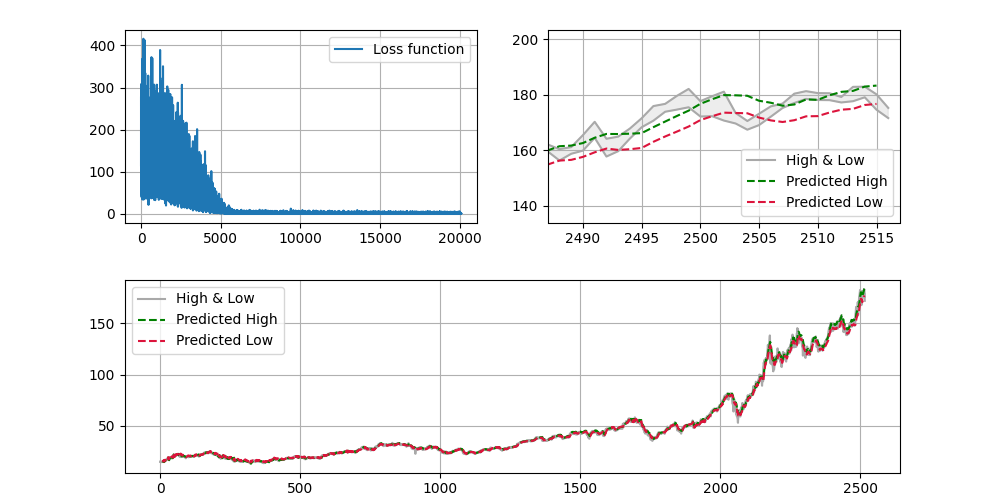
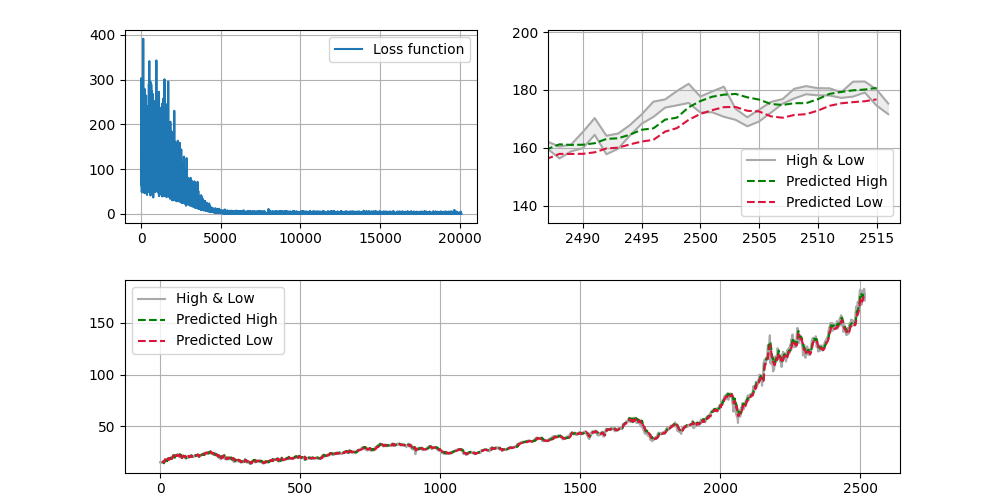
Losspercent

diff --git a/main_LSTM_HL.py b/main_LSTM_HL.py
@@ -14,7 +14,7 @@ features = 5 # Close, Volume, Open, High, Low (Input_size = 5)
 seq_len = 21 # length of window
 batch_size = 64 # Must be a power of 2
 l_rate = 0.0025
-n_epoch = 128 # Must be divisible by 8
+n_epoch = 16 # Must be divisible by 8
 n_hidden = int((2/3)*(features * seq_len)) # 2/3 input neurons
 dropout = 0.2 # Dropout rate
 
@@ -199,6 +199,20 @@ if __name__ == '__main__':
     timer_end = time.perf_counter()
     print_and_log('\nTesting finished! (' + str(round(timer_end - timer_start, 4)) + ' seconds )')
 
+    ### Percentual deviation from target ###
+    losspercent = 0
+    y_pred_plot = dataset_test.scaler.inverse_transform(y_pred_plot.reshape(-1, n_output))
+    plot_data = np.loadtxt(test_file[0], delimiter=',', skiprows=1, usecols=(4,5))[::-1]
+    targets = plot_data[seq_len:]
+    for i, e in enumerate(y_pred_plot):
+        target1 = targets[i, 0]
+        target2 = targets[i, 1]
+        losspercent = losspercent + abs((e[0]-target1)/target1)
+        losspercent = losspercent + abs((e[1]-target1)/target1)
+    losspercent = (losspercent/(len(y_pred_plot)*len(y_pred_plot[0])))*100
+    print_and_log(f"The mean percentual deviation from targets of this model is {losspercent}%")
+
+
     ### Plotting ###
     fig = plt.figure(figsize=(10, 5))
     sub = fig.subfigures(2, 1)
@@ -206,7 +220,6 @@ if __name__ == '__main__':
     bottom = sub[1].subplots(1, 1)
 
     plot_data = np.loadtxt(test_file[0], delimiter=',', skiprows=1, usecols=(4,5))[::-1]
-    y_pred_plot = dataset_test.scaler.inverse_transform(y_pred_plot.reshape(-1, n_output))
 
     # Set up the loss plot
     top_left.plot(Loss, label="Loss function")

diff --git a/main_LSTM_C.py b/main_LSTM_C.py
@@ -199,6 +199,18 @@ if __name__ == '__main__':
     timer_end = time.perf_counter()
     print_and_log('\nTesting finished! (' + str(round(timer_end - timer_start, 4)) + ' seconds )')
 
+    ### Percentual deviation from target ###
+    losspercent = 0
+    y_pred_plot = dataset_test.scaler.inverse_transform(y_pred_plot.reshape(-1, 1))
+    plot_data = np.loadtxt(test_file[0], delimiter=',', skiprows=1, usecols=(1))[::-1]
+    targets = plot_data[seq_len:]
+    for i, e in enumerate(y_pred_plot):
+        target = targets[i]
+        losspercent = losspercent + abs((e-target)/target)
+    losspercent = (losspercent/len(y_pred_plot))*100
+    print_and_log(f"The mean percentual deviation from targets of this model is {losspercent[0]}%")
+
+
     ### Plotting ###
     fig = plt.figure(figsize=(10, 5))
     sub = fig.subfigures(2, 1)
@@ -206,7 +218,6 @@ if __name__ == '__main__':
     bottom = sub[1].subplots(1, 1)
 
     plot_data = np.loadtxt(test_file[0], delimiter=',', skiprows=1, usecols=(1))[::-1]
-    y_pred_plot = dataset_test.scaler.inverse_transform(y_pred_plot.reshape(-1, n_output))
 
     # Set up the loss plot
     top_left.plot(Loss, label="Loss function")
@@ -219,7 +230,7 @@ if __name__ == '__main__':
     top_right.plot(np.arange(len(y_pred_plot)) + seq_len, y_pred_plot, label='Predicted close', linestyle='--', color='green')
 
     top_right.axis(
-        xmin=len(plot_data) - 30, xmax=len(plot_data[:, 0]),
+        xmin=len(plot_data) - 30, xmax=len(plot_data),
         ymin=np.min(y_pred_plot[-30:]) - 20, ymax=np.max(y_pred_plot[-30:]) + 20
         ) # Zoom in on the last 30 days
     top_right.legend()

diff --git a/main_CNN_HL.py b/main_CNN_HL.py
@@ -196,6 +196,19 @@ if __name__ == '__main__':
     timer_end = time.perf_counter()
     print_and_log('\nTesting finished! (' + str(round(timer_end - timer_start, 4)) + ' seconds )')
 
+    ### Percentual deviation from target ###
+    losspercent = 0
+    y_pred_plot = dataset_test.scaler.inverse_transform(y_pred_plot.reshape(-1, n_output))
+    plot_data = np.loadtxt(test_file[0], delimiter=',', skiprows=1, usecols=(4,5))[::-1]
+    targets = plot_data[seq_len:]
+    for i, e in enumerate(y_pred_plot):
+        target1 = targets[i, 0]
+        target2 = targets[i, 1]
+        losspercent = losspercent + abs((e[0]-target1)/target1)
+        losspercent = losspercent + abs((e[1]-target1)/target1)
+    losspercent = (losspercent/(len(y_pred_plot)*len(y_pred_plot[0])))*100
+    print_and_log(f"The mean percentual deviation from targets of this model is {losspercent}%")
+
     ### Plotting ###
     fig = plt.figure(figsize=(10, 5))
     sub = fig.subfigures(2, 1)
@@ -203,8 +216,6 @@ if __name__ == '__main__':
     bottom = sub[1].subplots(1, 1)
 
     plot_data = np.loadtxt(test_file[0], delimiter=',', skiprows=1, usecols=(4,5))[::-1]
-    y_pred_plot = dataset_test.scaler.inverse_transform(y_pred_plot.reshape(-1, n_output))
-
     # Set up the loss plot
     top_left.plot(Loss, label="Loss function")
     top_left.legend()

diff --git a/main_CNN_C.py b/main_CNN_C.py
@@ -196,6 +196,17 @@ if __name__ == '__main__':
     timer_end = time.perf_counter()
     print_and_log('\nTesting finished! (' + str(round(timer_end - timer_start, 4)) + ' seconds )')
 
+    ### Percentual deviation from target ###
+    losspercent = 0
+    y_pred_plot = dataset_test.scaler.inverse_transform(y_pred_plot.reshape(-1, 1))
+    plot_data = np.loadtxt(test_file[0], delimiter=',', skiprows=1, usecols=(1))[::-1]
+    targets = plot_data[seq_len:]
+    for i, e in enumerate(y_pred_plot):
+        target = targets[i]
+        losspercent = losspercent + abs((e-target)/target)
+    losspercent = (losspercent/len(y_pred_plot))*100
+    print_and_log(f"The mean percentual deviation from targets of this model is {losspercent[0]}%")
+
     ### Plotting ###
     fig = plt.figure(figsize=(10, 5))
     sub = fig.subfigures(2, 1)
@@ -203,7 +214,6 @@ if __name__ == '__main__':
     bottom = sub[1].subplots(1, 1)
 
     plot_data = np.loadtxt(test_file[0], delimiter=',', skiprows=1, usecols=(1))[::-1]
-    y_pred_plot = dataset_test.scaler.inverse_transform(y_pred_plot.reshape(-1, n_output))
 
     # Set up the loss plot
     top_left.plot(Loss, label="Loss function")
